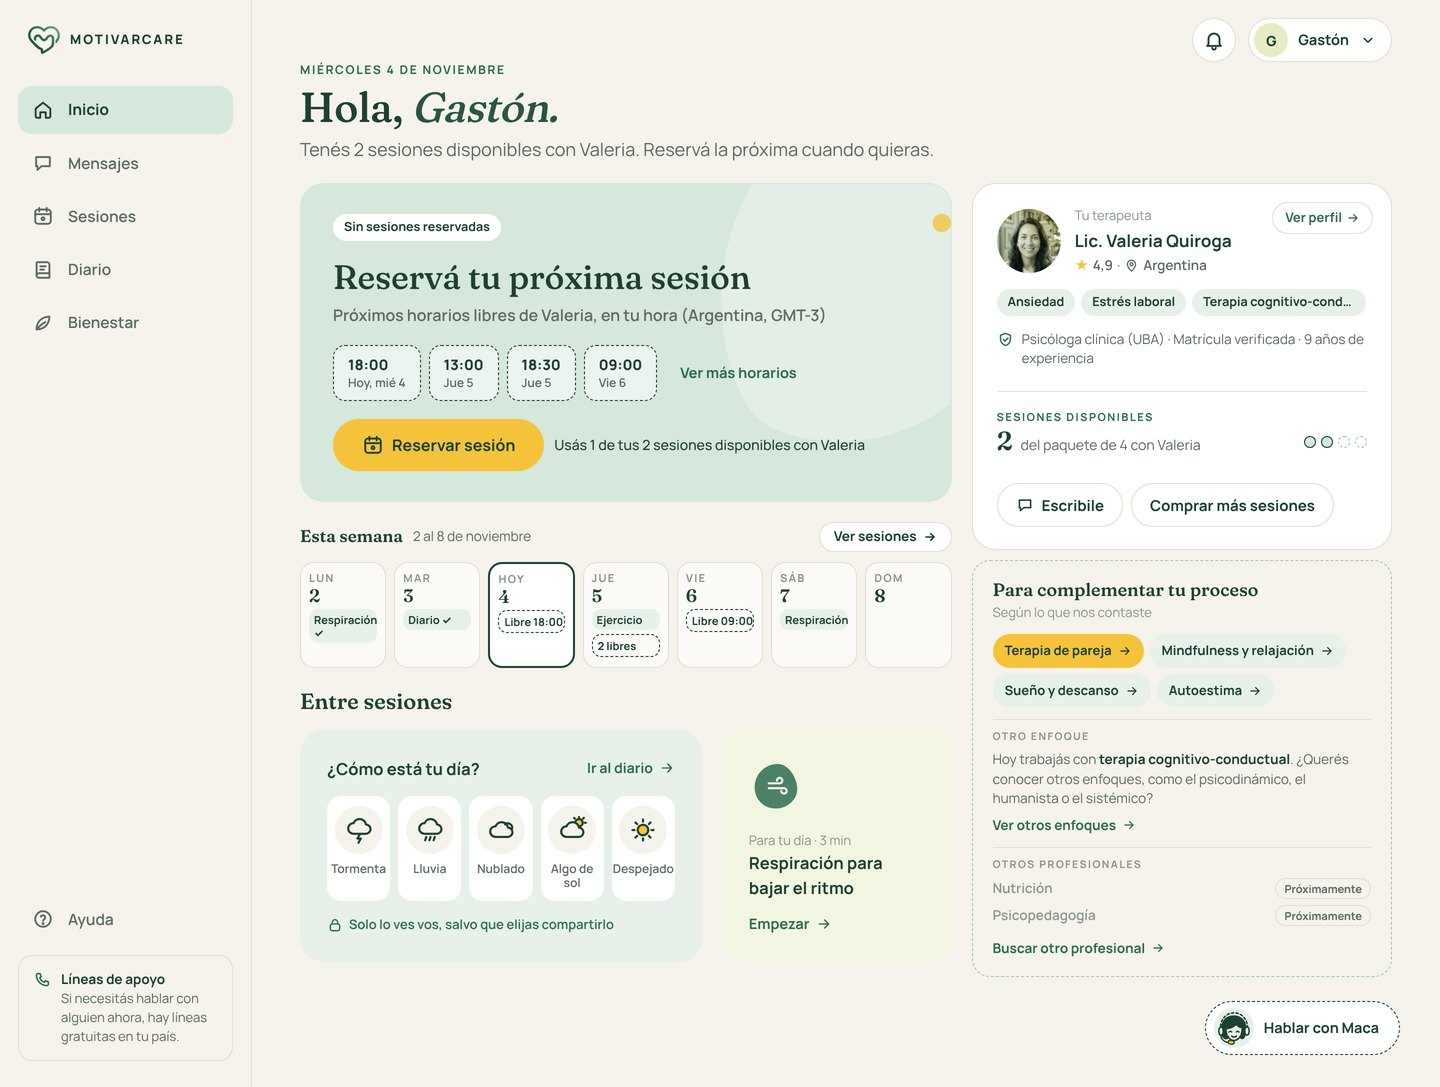
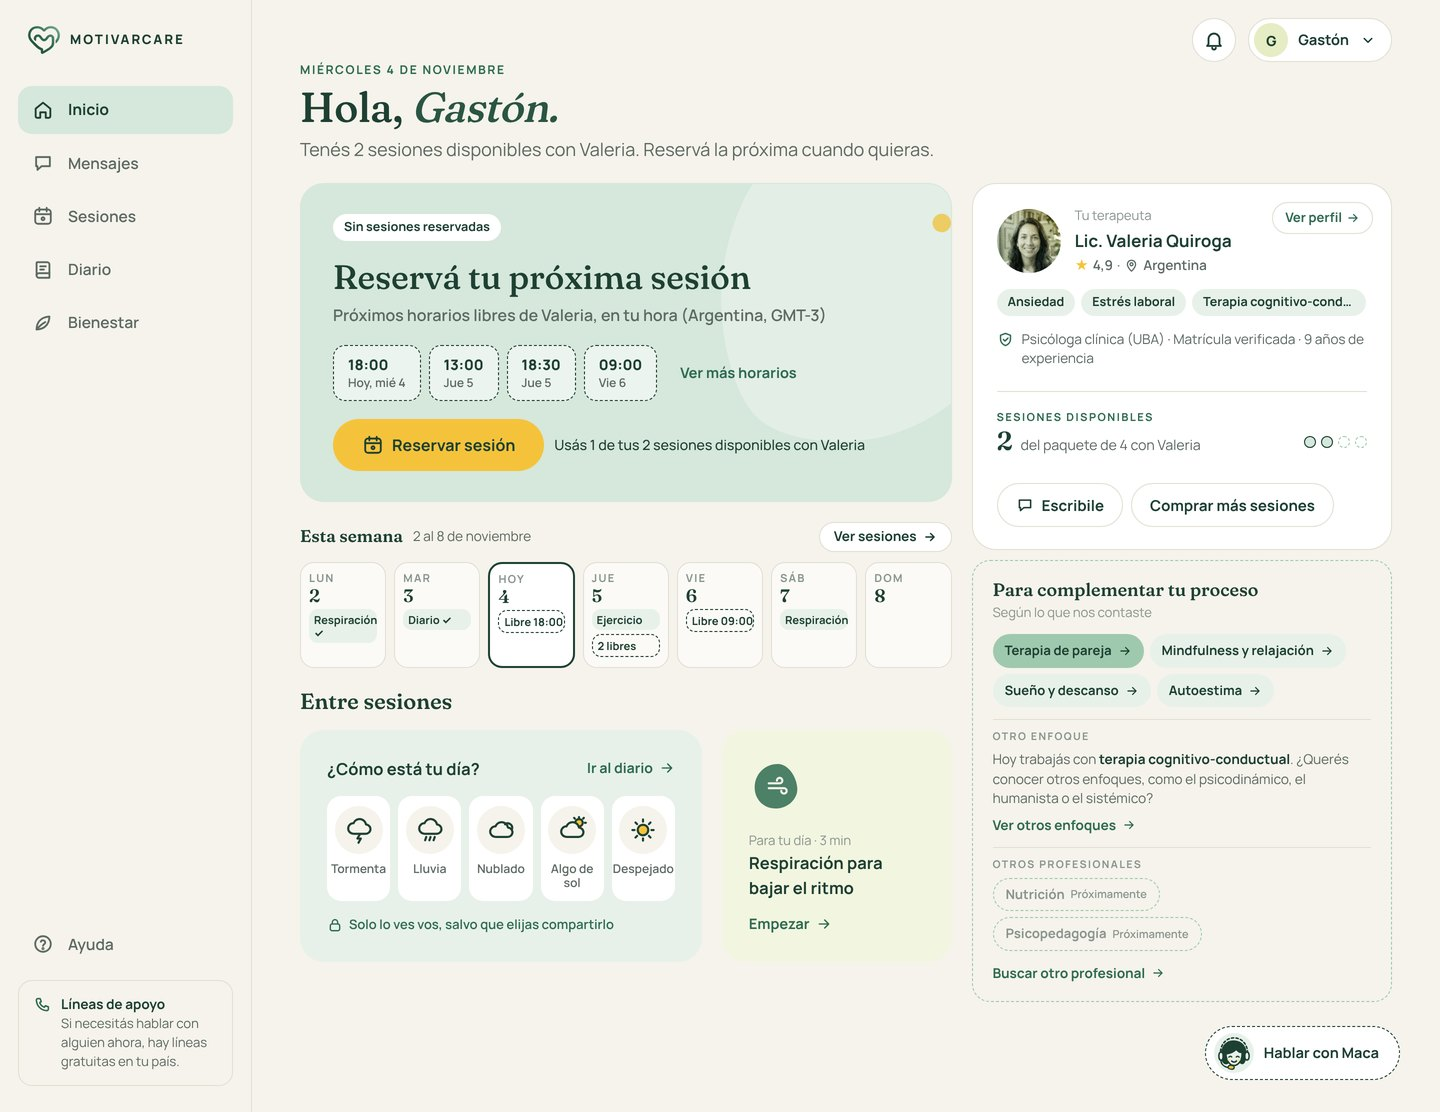
App del usuario: modalidad en verde y rubros en pills punteadas
En el widget "Para complementar tu proceso", la pill de la modalidad
complementaria pasa de amarillo a salvia fuerte, y los otros
profesionales van en pills con contorno punteado y "Próximamente".

Claude-Session: https://claude.ai/code/session_01WU1DRuLLvKJwMVuiPWLics

diff --git a/web/public/app-usuario/ronda-2.html b/web/public/app-usuario/ronda-2.html
@@ -816,10 +816,13 @@ ul.lista-simple { padding: 0; }
 .marco.esc.largo { height: auto; min-height: 1024px; }
 .marco.esc.largo .contenido { padding-bottom: 110px; }
 
-.esp-sug.modalidad { background: var(--amarillo); }
+.esp-sug.modalidad { background: var(--salvia-fuerte); }
 .comp-enfoque { display: flex; flex-direction: column; gap: 6px; padding-top: 10px; border-top: 1px solid var(--linea); }
 .comp-enfoque p { font-size: 13.5px; color: var(--tinta-suave); margin: 0; line-height: 1.45; }
 .comp-enfoque p b { color: var(--bosque); }
+.rubros { display: flex; flex-wrap: wrap; gap: 6px; }
+.rubro-pill { display: inline-flex; align-items: center; gap: 6px; padding: 6px 12px; border-radius: 99px; border: 1.5px dashed var(--salvia-fuerte); font-size: 13px; font-weight: 700; color: var(--tinta-tenue); }
+.rubro-pill small { font-size: 11px; font-weight: 600; color: var(--tinta-tenue); }
 </style>
 </head>
 <body>
@@ -950,8 +953,7 @@ ul.lista-simple { padding: 0; }
             </div>
             <div class="comp-otros">
               <span class="et-comp">Otros profesionales</span>
-              <span class="otro-rubro"><span>Nutrición</span><span class="chip contorno">Próximamente</span></span>
-              <span class="otro-rubro"><span>Psicopedagogía</span><span class="chip contorno">Próximamente</span></span>
+              <div class="rubros"><span class="rubro-pill">Nutrición<small>Próximamente</small></span><span class="rubro-pill">Psicopedagogía<small>Próximamente</small></span></div>
             </div>
             <a class="enlace comp-buscar">Buscar otro profesional<svg class="ico"><use href="#i-flecha"/></svg></a>
           </div>
@@ -1019,8 +1021,7 @@ ul.lista-simple { padding: 0; }
             </div>
             <div class="comp-otros">
               <span class="et-comp">Otros profesionales</span>
-              <span class="otro-rubro"><span>Nutrición</span><span class="chip contorno">Próximamente</span></span>
-              <span class="otro-rubro"><span>Psicopedagogía</span><span class="chip contorno">Próximamente</span></span>
+              <div class="rubros"><span class="rubro-pill">Nutrición<small>Próximamente</small></span><span class="rubro-pill">Psicopedagogía<small>Próximamente</small></span></div>
             </div>
             <a class="enlace comp-buscar">Buscar otro profesional<svg class="ico"><use href="#i-flecha"/></svg></a>
           </div>
@@ -1137,8 +1138,7 @@ ul.lista-simple { padding: 0; }
             </div>
             <div class="comp-otros">
               <span class="et-comp">Otros profesionales</span>
-              <span class="otro-rubro"><span>Nutrición</span><span class="chip contorno">Próximamente</span></span>
-              <span class="otro-rubro"><span>Psicopedagogía</span><span class="chip contorno">Próximamente</span></span>
+              <div class="rubros"><span class="rubro-pill">Nutrición<small>Próximamente</small></span><span class="rubro-pill">Psicopedagogía<small>Próximamente</small></span></div>
             </div>
             <a class="enlace comp-buscar">Buscar otro profesional<svg class="ico"><use href="#i-flecha"/></svg></a>
           </div>
@@ -1210,8 +1210,7 @@ ul.lista-simple { padding: 0; }
             </div>
             <div class="comp-otros">
               <span class="et-comp">Otros profesionales</span>
-              <span class="otro-rubro"><span>Nutrición</span><span class="chip contorno">Próximamente</span></span>
-              <span class="otro-rubro"><span>Psicopedagogía</span><span class="chip contorno">Próximamente</span></span>
+              <div class="rubros"><span class="rubro-pill">Nutrición<small>Próximamente</small></span><span class="rubro-pill">Psicopedagogía<small>Próximamente</small></span></div>
             </div>
             <a class="enlace comp-buscar">Buscar otro profesional<svg class="ico"><use href="#i-flecha"/></svg></a>
           </div>
@@ -1508,8 +1507,7 @@ ul.lista-simple { padding: 0; }
             </div>
             <div class="comp-otros">
               <span class="et-comp">Otros profesionales</span>
-              <span class="otro-rubro"><span>Nutrición</span><span class="chip contorno">Próximamente</span></span>
-              <span class="otro-rubro"><span>Psicopedagogía</span><span class="chip contorno">Próximamente</span></span>
+              <div class="rubros"><span class="rubro-pill">Nutrición<small>Próximamente</small></span><span class="rubro-pill">Psicopedagogía<small>Próximamente</small></span></div>
             </div>
             <a class="enlace comp-buscar">Buscar otro profesional<svg class="ico"><use href="#i-flecha"/></svg></a>
           </div>
@@ -1585,8 +1583,7 @@ ul.lista-simple { padding: 0; }
             </div>
             <div class="comp-otros">
               <span class="et-comp">Otros profesionales</span>
-              <span class="otro-rubro"><span>Nutrición</span><span class="chip contorno">Próximamente</span></span>
-              <span class="otro-rubro"><span>Psicopedagogía</span><span class="chip contorno">Próximamente</span></span>
+              <div class="rubros"><span class="rubro-pill">Nutrición<small>Próximamente</small></span><span class="rubro-pill">Psicopedagogía<small>Próximamente</small></span></div>
             </div>
             <a class="enlace comp-buscar">Buscar otro profesional<svg class="ico"><use href="#i-flecha"/></svg></a>
           </div>

diff --git a/06-app-usuario/historial/ronda-2.md b/06-app-usuario/historial/ronda-2.md
@@ -324,10 +324,10 @@ El espacio "Sumar profesional" de los mockups 1, 2 y 4 se convierte en un **widg
 
 Las sugerencias se ordenan en cuatro niveles, de lo más cercano a lo más amplio:
 
-1. **Modalidad complementaria.** Lo primero que se pregunta en el cuestionario es si la persona quiere terapia individual o de pareja, y son complementarias. Por eso la primera pill, en **amarillo**, ofrece la otra: si hace terapia individual, "**Terapia de pareja**"; si hace terapia de pareja, "Terapia individual".
+1. **Modalidad complementaria.** Lo primero que se pregunta en el cuestionario es si la persona quiere terapia individual o de pareja, y son complementarias. Por eso la primera pill, en un **verde más oscuro (salvia fuerte)** que las demás, ofrece la otra. No usa amarillo, para que no se confunda con un botón principal: si hace terapia individual, "**Terapia de pareja**"; si hace terapia de pareja, "Terapia individual".
 2. **Especialidades o motivos de consulta**, "según lo que nos contaste": dos o tres que complementan lo que ya trabaja, nunca las mismas (en el ejemplo, "Mindfulness y relajación", "Sueño y descanso" y "Autoestima", porque con Valeria ya trabaja ansiedad y estrés laboral). Van como pills menta.
 3. **Otro enfoque.** El enfoque terapéutico es el método con el que trabaja el terapeuta: cognitivo-conductual (TCC), psicodinámico o psicoanalítico, humanista, sistémico o familiar, entre otros. Se llama "**enfoque**" para no confundirlo con el tipo de terapia (individual o de pareja). No va como pills: es un apartado que dice con qué enfoque trabaja hoy ("Hoy trabajás con terapia cognitivo-conductual") y pregunta si quiere conocer otros, con "Ver otros enfoques".
-4. **Otros profesionales:** otras categorías, como Nutrición y Psicopedagogía, marcadas como **"Próximamente"** mientras en esta fase solo haya psicólogos.
+4. **Otros profesionales:** otras categorías, como Nutrición y Psicopedagogía, en pills con **contorno punteado** y la aclaración **"Próximamente"**, mientras en esta fase solo haya psicólogos.
 
 Cada opción lleva a "Elegí a tu profesional" con los filtros ya cargados: la modalidad, la especialidad como prioridad en "Compatibilidad", el enfoque o la categoría en "Mostrar". La elección de profesional (mockups 5 y 6) todavía no tiene la modalidad ni el enfoque entre sus criterios: hay que sumarlos.
 - **"Buscar otro profesional"**, al final, para buscar sin sugerencias.
